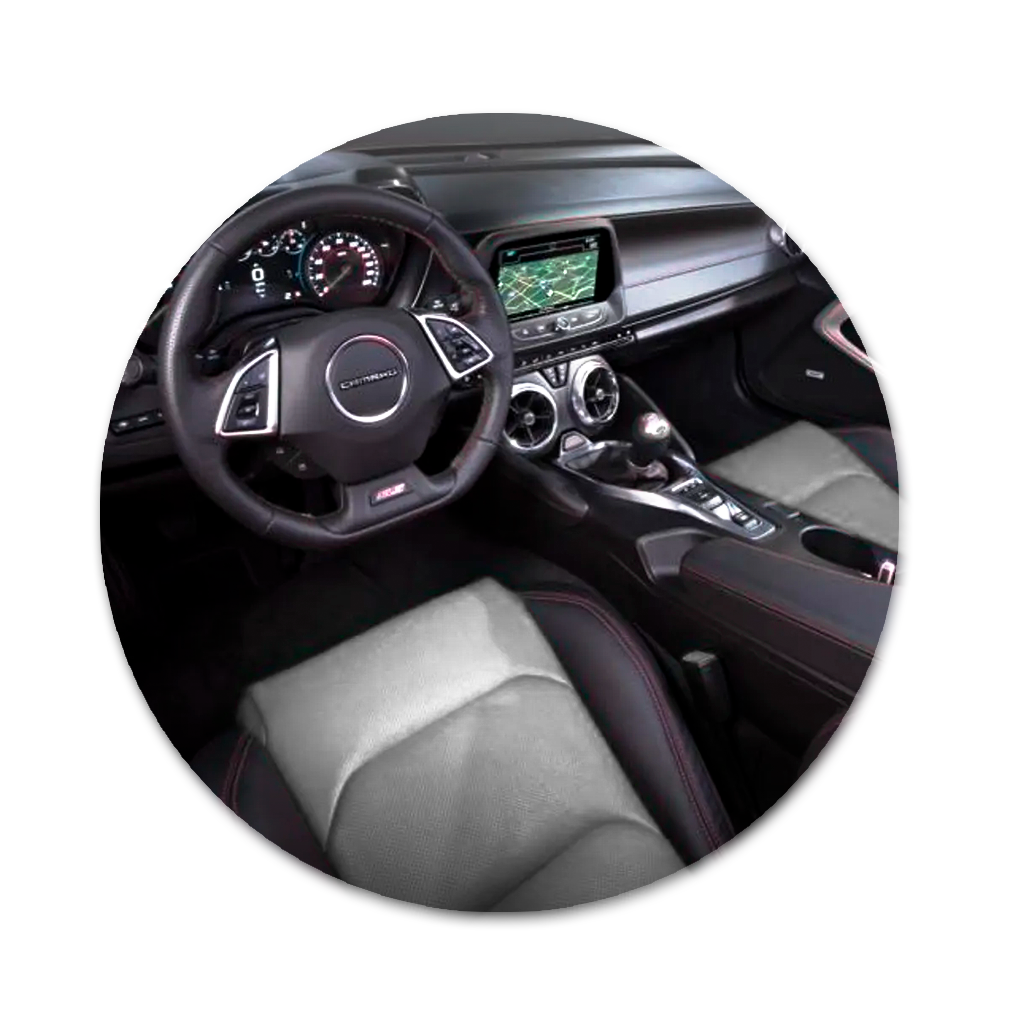
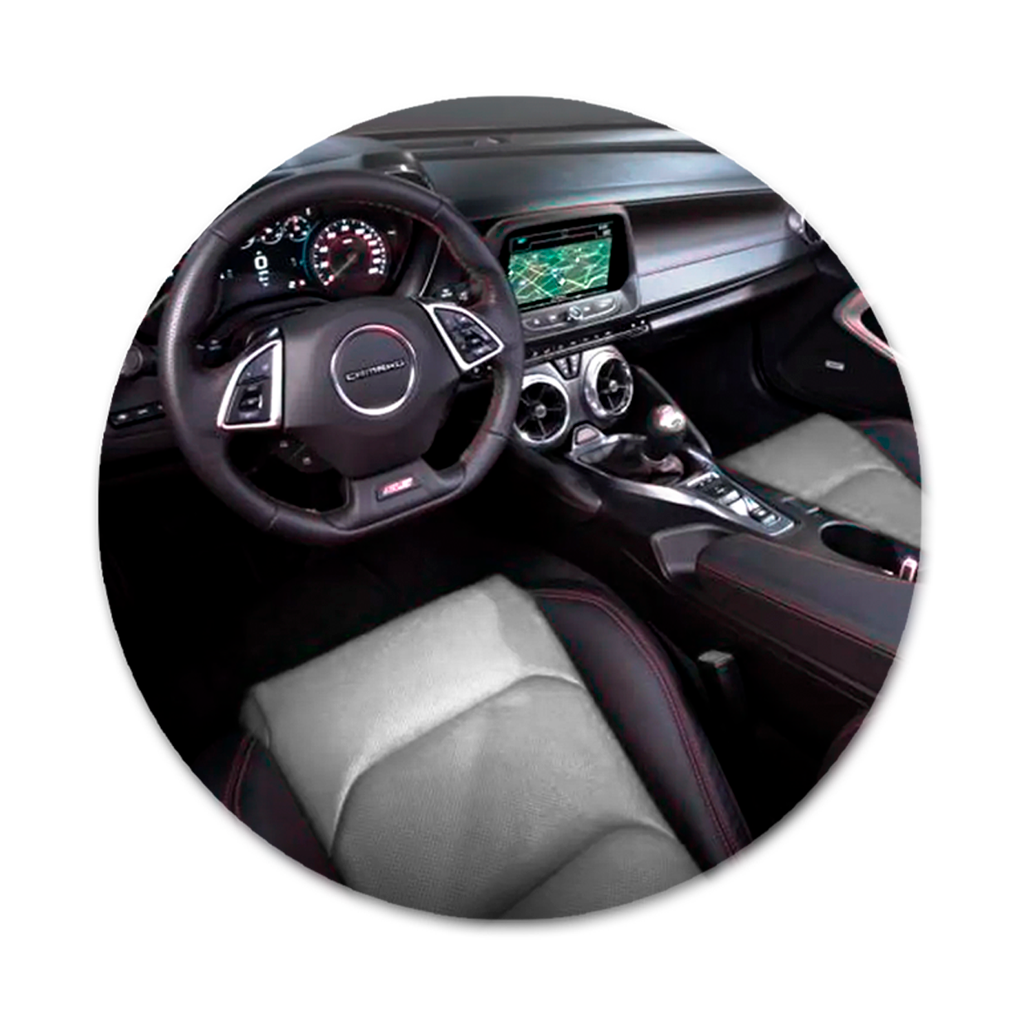
actualizacion

diff --git a/src/app/components/CustomizeProduct.js b/src/app/components/CustomizeProduct.js
@@ -36,8 +36,8 @@ const CustomizeProduct = ({ product, onComplete }) => {
   ];
 
   const interiorOptions = [
-    { name: "Cuero blanco", image: "/imgs/cuero_blanco.png" },
-    { name: "Cuero rojo", image: "/imgs/cuero_rojo.png" },
+    { name: "Cuero blanco", image: "/imgs/cuero_blanco2.png" },
+    { name: "Cuero rojo", image: "/imgs/cuero_rojo1.png" },
   ];
 
   const selectedVehicleImage = selectedTab === "interior" 
@@ -112,7 +112,7 @@ const CustomizeProduct = ({ product, onComplete }) => {
     <div className="customization-container p-5 flex pb-60"> 
       <div className="w-1/2 flex justify-center items-center">
         {selectedVehicleImage ? (
-          <Image src={selectedVehicleImage} alt={product.name} width={600} height={500} />
+          <Image src={selectedVehicleImage} alt={product.name} width={850} height={200} />
         ) : (
           <p className="text-center text-gray-500">Seleccione un color o un interior</p>
         )}
